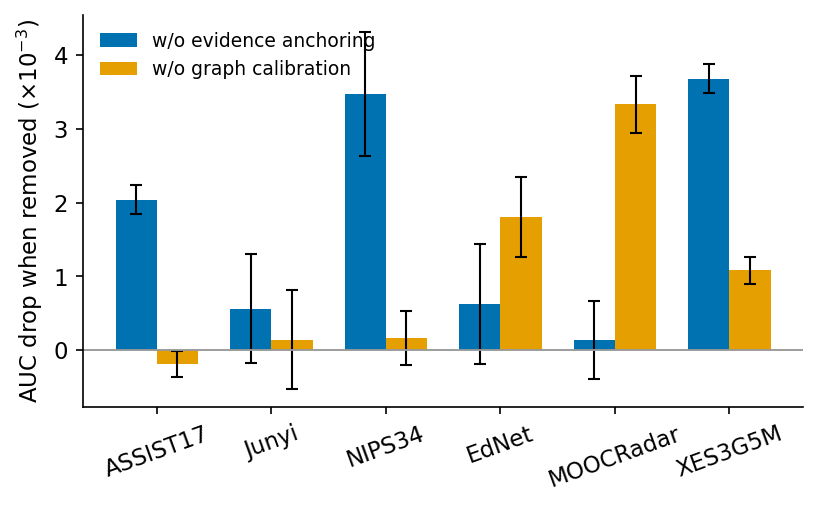
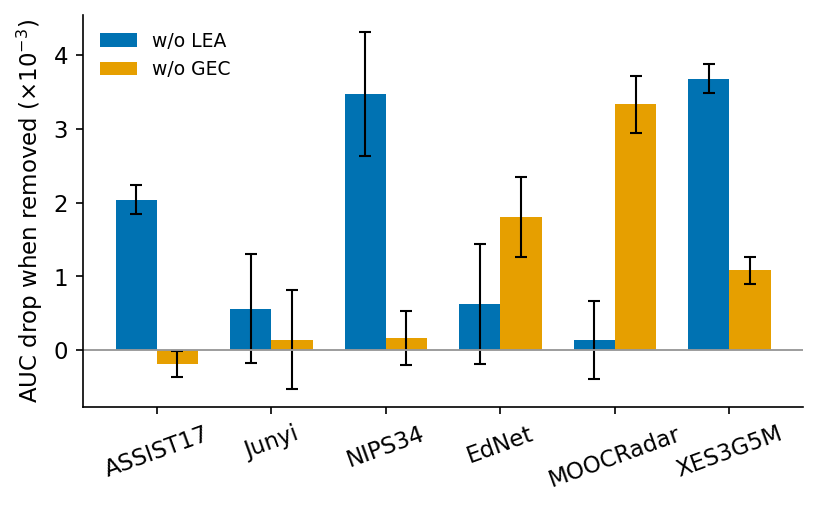
Rename ablation legend to w/o LEA / w/o GEC

Changed region(s): [[0.2139, 0.0593, 0.4584, 0.1186], [0.2139, 0.1186, 0.4279, 0.1482]]

diff --git a/tools/make_paper_figures.py b/tools/make_paper_figures.py
@@ -202,9 +202,9 @@ def fig_ablation():
     x = np.arange(len(KEYS))
     w = 0.36
     fig, ax = plt.subplots(figsize=(6.2, 3.4))
-    ax.bar(x - w / 2, dA, w, yerr=eA, capsize=3, label="w/o evidence anchoring",
+    ax.bar(x - w / 2, dA, w, yerr=eA, capsize=3, label="w/o LEA",
            color=C["blue"], error_kw={"lw": 1.0})
-    ax.bar(x + w / 2, dB, w, yerr=eB, capsize=3, label="w/o graph calibration",
+    ax.bar(x + w / 2, dB, w, yerr=eB, capsize=3, label="w/o GEC",
            color=C["orange"], error_kw={"lw": 1.0})
     ax.axhline(0.0, color=C["grey"], lw=0.9)
     ax.set_xticks(x)
